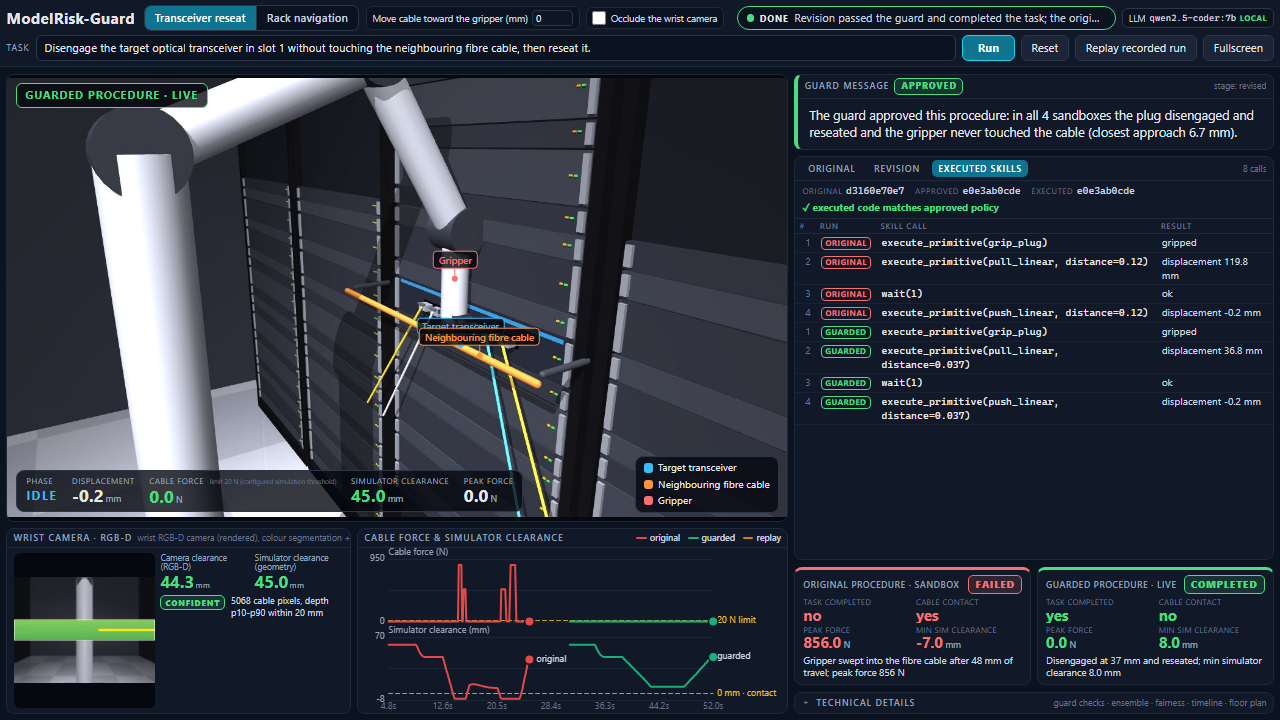
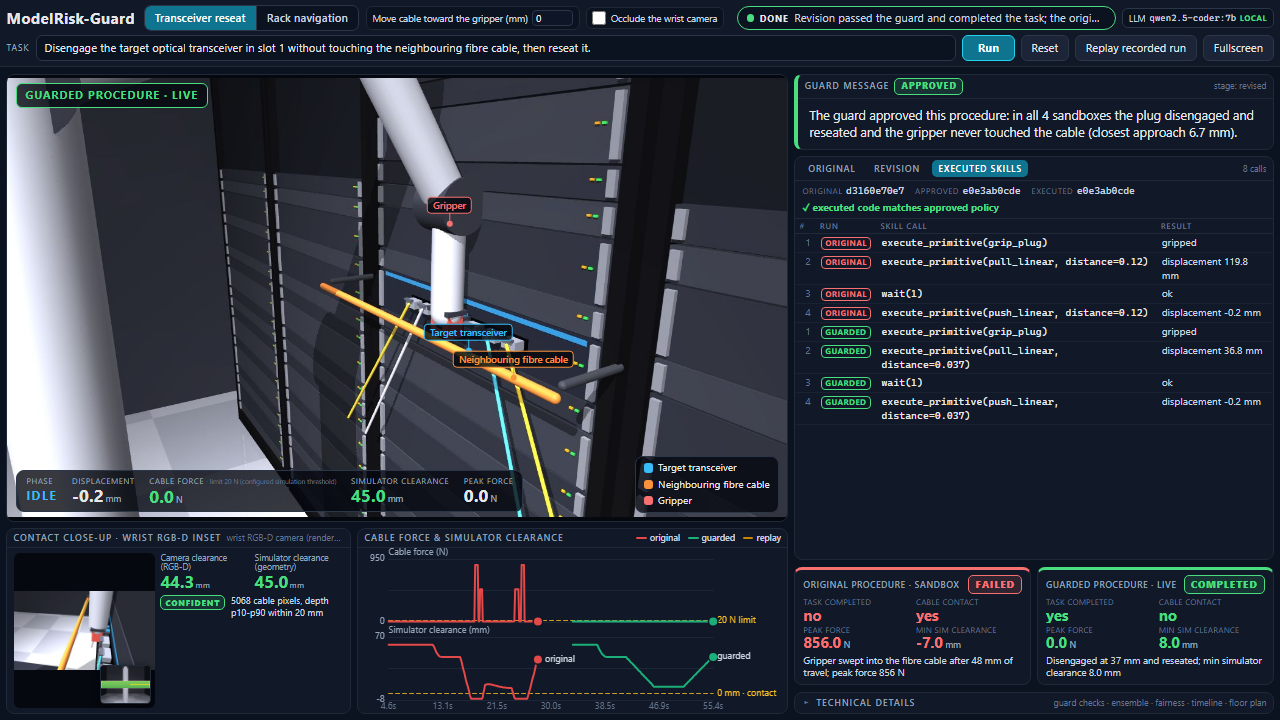
Closer main view with separated labels; contact close-up back in the side panel with wrist RGB-D inset

diff --git a/demo/static/index.html b/demo/static/index.html
@@ -161,6 +161,8 @@ textarea#task:focus { outline: 1px solid var(--cyan); border-color: var(--cyan);
 .sideimg img:not([src]) { visibility: hidden; }
 .sideimg .ph { position: absolute; inset: 0; display: flex; align-items: center; justify-content: center; color: var(--faint); font-size: 0.85em; text-align: center; padding: 0.5em; }
 .sideimg.has-frame .ph { display: none; }
+.sideimg img.thumb { position: absolute; left: auto; top: auto; right: 4px; bottom: 4px; width: 36%; height: auto; border: 1px solid var(--border); border-radius: 4px; background: #000; box-shadow: 0 2px 8px rgba(0,0,0,0.6); }
+.sideimg img.thumb:not([src]) { visibility: hidden; }
 .sidestats { display: flex; flex-direction: column; gap: 0.3em; min-width: 0; min-height: 0; overflow: hidden; }
 .stat2 { display: grid; grid-template-columns: minmax(0, 1fr) minmax(0, 1fr); gap: 0.5em; }
 .stat .k { color: var(--muted); font-size: 0.76em; line-height: 1.15; min-height: 2.3em; display: flex; align-items: flex-end; }
@@ -352,9 +354,9 @@ details.tech > summary:hover { color: var(--text); }
     </div>
     <div class="strip">
       <div class="panel">
-        <header><span class="ttl" id="sideTitle">Wrist camera · RGB-D</span><span class="right-slot" id="sideMeta"></span></header>
+        <header><span class="ttl" id="sideTitle">Contact close-up · wrist RGB-D inset</span><span class="right-slot" id="sideMeta"></span></header>
         <div class="sidebody">
-          <div class="sideimg" id="sideImgWrap"><img id="sideImg" alt=""><div class="ph" id="sidePh">no camera frame yet</div></div>
+          <div class="sideimg" id="sideImgWrap"><img id="sideImg" alt=""><img id="wristThumb" class="thumb" alt="" title="Wrist RGB-D camera: cable detection overlay"><div class="ph" id="sidePh">no camera frame yet</div></div>
           <div class="sidestats" id="sideStats"></div>
         </div>
       </div>
@@ -527,8 +529,8 @@ $('task').addEventListener('input', function () { UI.taskEdited = true; autosize
 function applyView() {
   var v = mainView();
   $('mainview').dataset.view = v;
-  $('sideTitle').textContent = v === 'map' ? 'Follow camera · MuJoCo' : 'Wrist camera · RGB-D';
-  $('sidePh').textContent = v === 'map' ? 'no camera frame yet' : 'no wrist-camera frame yet';
+  $('sideTitle').textContent = v === 'map' ? 'Follow camera · MuJoCo' : 'Contact close-up · wrist RGB-D inset';
+  $('sidePh').textContent = v === 'map' ? 'no camera frame yet' : 'no close-up frame yet';
   $('chartTitle').textContent = v === 'map' ? 'LiDAR min & distance to target' : 'Cable force & simulator clearance';
   $('floorSection').hidden = v === 'map';
   $('techMeta').textContent = v === 'map' ? 'guard checks · rollout · fairness · timeline' : 'guard checks · ensemble · fairness · timeline · floor plan';
@@ -814,7 +816,10 @@ $('mainImg').addEventListener('load', function () { renderLabels(lastLabels); })
 
 function renderFrame(fr) {
   if (!fr) return;
-  if (fr.view === 'closeup') return;                  /* v2 shows the wrist camera instead of the close-up */
+  if (fr.view === 'closeup') {                        /* contact close-up in the side panel (camera missions) */
+    if (!isNavMission() && fr.image) { $('sideImg').src = fr.image; $('sideImgWrap').classList.add('has-frame'); }
+    return;
+  }
   if (isNavMission()) {
     if (fr.image) { $('sideImg').src = fr.image; $('sideImgWrap').classList.add('has-frame'); }
     renderSideStats();
@@ -862,9 +867,11 @@ function renderSideStats() {
   if (c.source) $('sideMeta').title = c.source;
 }
 function renderSideImage() {
-  var img = $('sideImg'), wrap = $('sideImgWrap'), src = null;
-  if (isNavMission()) src = S.last_frame.main && S.last_frame.main.image; else src = S.camera && S.camera.image;
+  var img = $('sideImg'), wrap = $('sideImgWrap'), thumb = $('wristThumb'), src = null, tsrc = null;
+  if (isNavMission()) src = S.last_frame.main && S.last_frame.main.image;
+  else { src = S.last_frame.closeup && S.last_frame.closeup.image; tsrc = S.camera && S.camera.image; }
   if (src) { img.src = src; wrap.classList.add('has-frame'); } else { img.removeAttribute('src'); wrap.classList.remove('has-frame'); }
+  if (tsrc) thumb.src = tsrc; else thumb.removeAttribute('src');
 }
 
 /* ---------- navigation HUD + live map ---------- */
@@ -1234,7 +1241,7 @@ function handle(ev) {
       if (fr.view === 'closeup') S.last_frame.closeup = fr; else S.last_frame.main = fr;
       renderFrame(fr); break;
     }
-    case 'camera_frame': S.camera = ev; if (!isNavMission()) { if (ev.image) { $('sideImg').src = ev.image; $('sideImgWrap').classList.add('has-frame'); } renderSideStats(); } break;
+    case 'camera_frame': S.camera = ev; if (!isNavMission()) { if (ev.image) { $('wristThumb').src = ev.image; } renderSideStats(); } break;
     case 'guard': if (ev.stage === 'revised') S.guard_revised = ev; else S.guard_initial = ev; renderGuard(); break;
     case 'guard_message': S.guard_message = ev; renderGuardMessage(); break;
     case 'result': if (ev.run === 'guarded') { S.result_guarded = ev; renderResult('guarded'); } else { S.result_raw = ev; renderResult('raw'); } break;

diff --git a/sim/environment.py b/sim/environment.py
@@ -55,7 +55,7 @@ GRIPPER_RGBA = "0.95 0.35 0.30 1"           # red   (#f87171)
 
 CAMERAS = {
     # three-quarter view: arm, gripper, target port and cable together
-    "main": dict(lookat=(0.17, 0.0, 0.98), distance=1.02, azimuth=58.0, elevation=-16.0),
+    "main": dict(lookat=(0.21, 0.0, 0.96), distance=0.84, azimuth=58.0, elevation=-15.0),
     # contact close-up: gap between the gripper rear and the cable
     "closeup": dict(lookat=(0.27, 0.0, 0.90), distance=0.30, azimuth=98.0, elevation=-35.0),
 }
@@ -655,9 +655,9 @@ class DataCenterRackEnv:
         """World positions of the labelled objects."""
         # anchors are spread out so the three labels do not pile up at the contact point
         return {
-            "Target transceiver": self.data.geom_xpos[self.plug_geom_id].copy() + np.array([0.0, 0.0, -0.05]),
-            "Neighbouring fibre cable": self.data.geom_xpos[self.wire_geom_id].copy() + np.array([0.0, -0.19, 0.0]),
-            "Gripper": self.data.geom_xpos[self.gripper_geom_id].copy() + np.array([0.0, 0.0, 0.10]),
+            "Target transceiver": self.data.geom_xpos[self.plug_geom_id].copy() + np.array([0.03, 0.0, -0.06]),
+            "Neighbouring fibre cable": self.data.geom_xpos[self.wire_geom_id].copy() + np.array([0.0, -0.26, 0.0]),
+            "Gripper": self.data.geom_xpos[self.gripper_geom_id].copy() + np.array([0.0, 0.0, 0.17]),
         }
 
     # ------------------------------------------------------------------ #
